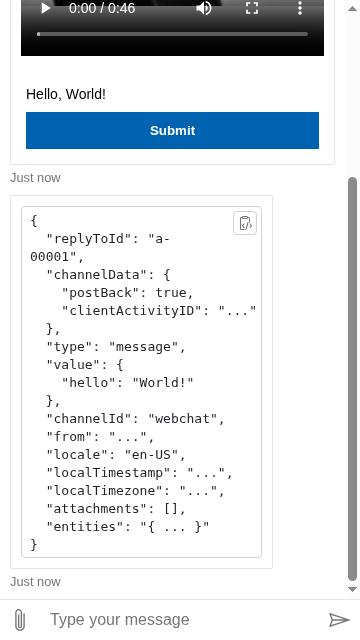
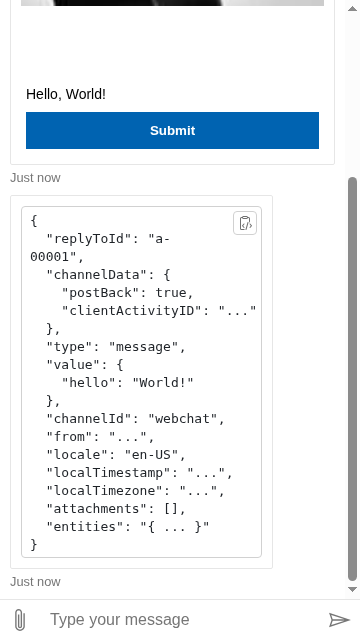
Fix flakiness

Changed region(s): [[0.0611, 0.0, 0.9167, 0.0938]]

diff --git a/__tests__/html2/replyToId/cardAction/videoCard.html b/__tests__/html2/replyToId/cardAction/videoCard.html
@@ -68,6 +68,10 @@
           type: 'message'
         });
 
+        // Hide the controls because the timeline contains buffer size which will never converge.
+        // See `../animationcard.html` for details.
+        document.querySelector('video').controls = false;
+
         const submitButton = pageElements.activities()[0].querySelector('.ac-pushButton');
 
         const { activity, resolveAll } = await directLine.actPostActivity(() => host.click(submitButton));
@@ -98,6 +102,7 @@
           })
         );
 
+        await pageConditions.scrollStabilized();
         await host.snapshot('local');
       });
     </script>

diff --git a/__tests__/html2/replyToId/cardAction/adaptiveCard.html b/__tests__/html2/replyToId/cardAction/adaptiveCard.html
@@ -103,6 +103,7 @@
           })
         );
 
+        await pageConditions.scrollStabilized();
         await host.snapshot('local');
       });
     </script>

diff --git a/__tests__/html2/replyToId/cardAction/receiptCard.html b/__tests__/html2/replyToId/cardAction/receiptCard.html
@@ -100,6 +100,7 @@
           })
         );
 
+        await pageConditions.scrollStabilized();
         await host.snapshot('local');
       });
     </script>

diff --git a/__tests__/html2/replyToId/cardAction/animationCard.html b/__tests__/html2/replyToId/cardAction/animationCard.html
@@ -99,6 +99,7 @@
           })
         );
 
+        await pageConditions.scrollStabilized();
         await host.snapshot('local');
       });
     </script>

diff --git a/__tests__/html2/replyToId/cardAction/audioCard.html b/__tests__/html2/replyToId/cardAction/audioCard.html
@@ -94,6 +94,7 @@
           })
         );
 
+        await pageConditions.scrollStabilized();
         await host.snapshot('local');
       });
     </script>

diff --git a/__tests__/html2/replyToId/cardAction/heroCard.html b/__tests__/html2/replyToId/cardAction/heroCard.html
@@ -86,6 +86,7 @@
           })
         );
 
+        await pageConditions.scrollStabilized();
         await host.snapshot('local');
       });
     </script>

diff --git a/__tests__/html2/replyToId/cardAction/oauthCard.html b/__tests__/html2/replyToId/cardAction/oauthCard.html
@@ -88,6 +88,7 @@
           })
         );
 
+        await pageConditions.scrollStabilized();
         await host.snapshot('local');
       });
     </script>

diff --git a/__tests__/html2/replyToId/cardAction/signInCard.html b/__tests__/html2/replyToId/cardAction/signInCard.html
@@ -86,6 +86,7 @@
           })
         );
 
+        await pageConditions.scrollStabilized();
         await host.snapshot('local');
       });
     </script>

diff --git a/__tests__/html2/replyToId/cardAction/thumbnailCard.html b/__tests__/html2/replyToId/cardAction/thumbnailCard.html
@@ -92,6 +92,7 @@
           })
         );
 
+        await pageConditions.scrollStabilized();
         await host.snapshot('local');
       });
     </script>
